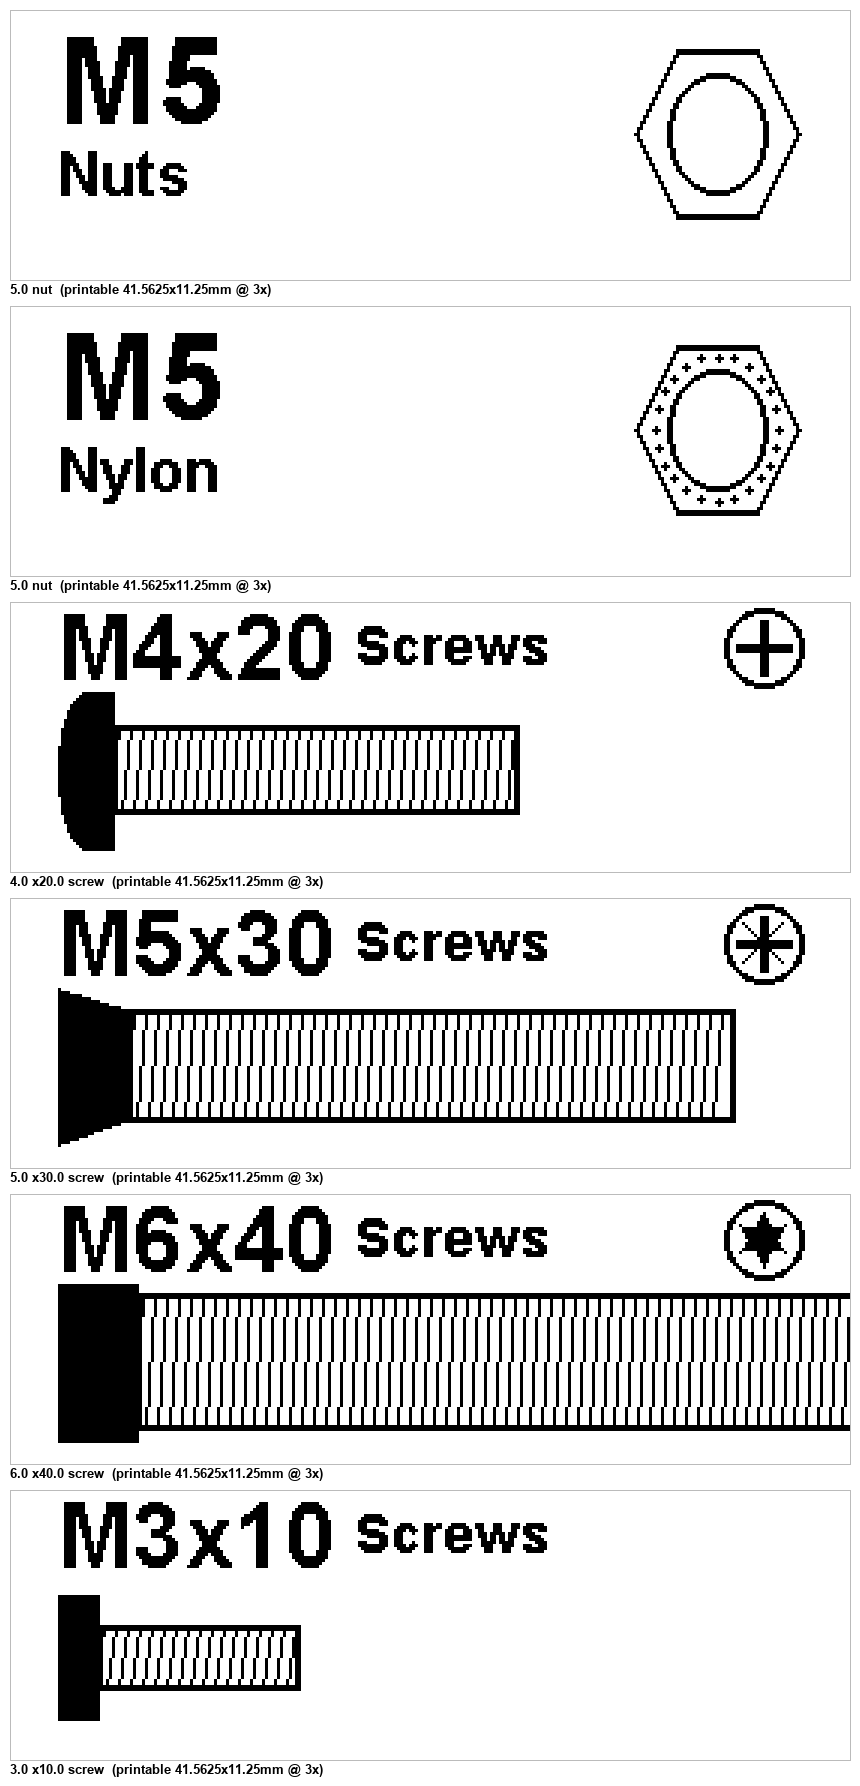
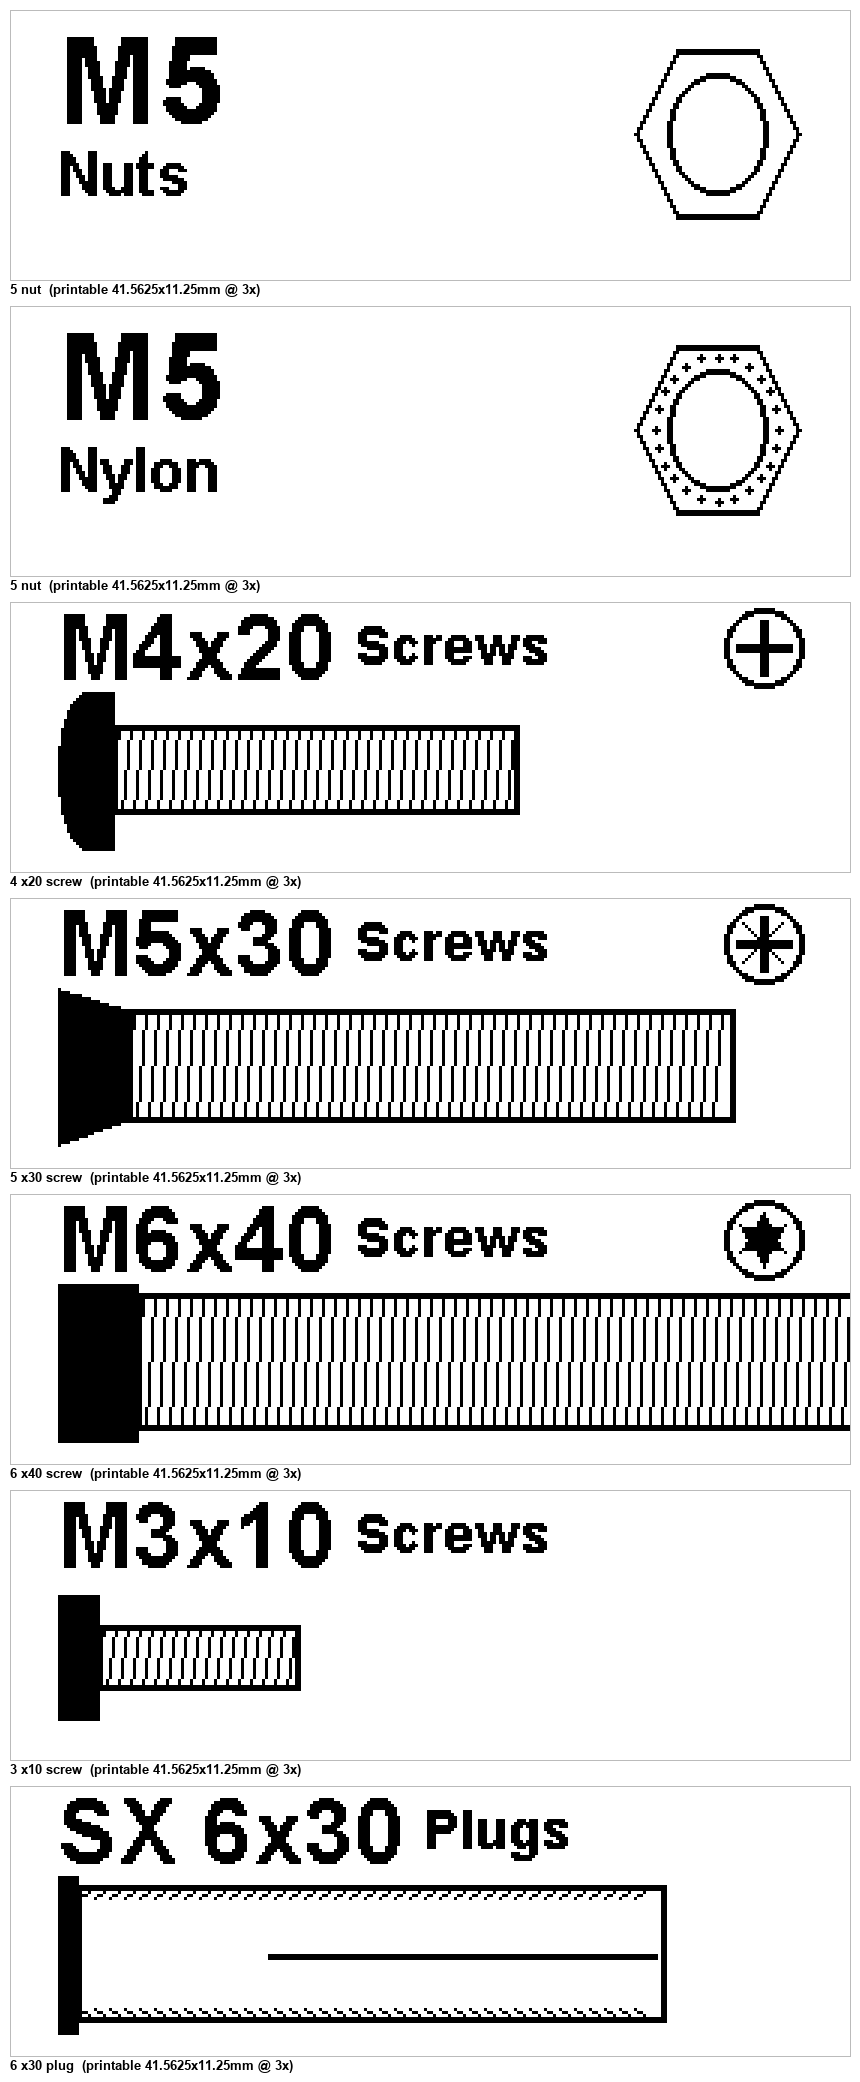
add wall-plug kind
- the :plug tag draws a wall plug instead of a fastener: collar, ribbed
  expansion sleeve and expansion slot, no drive icon
- size needs no M prefix; any letter prefix is kept as the range name
  (SX6x30:plug -> "SX 6x30 Plugs", true 6 x 30 mm)
- README tags/accuracy tables and the examples preview updated

Changed region(s): [[0.0, 0.0, 0.9977, 1.0], [0.7256, 0.154, 0.9372, 0.4003], [0.7256, 0.0, 0.9372, 0.1232]]

diff --git a/gen.py b/gen.py
@@ -5,6 +5,7 @@ ACTUAL SIZE; anything larger than the sticker runs off the edge and is cut.
 """
 from __future__ import annotations
 import math
+from string import ascii_uppercase
 from PIL import Image, ImageDraw, ImageFont
 
 DPMM = 8
@@ -46,6 +47,9 @@ DRIVES = {"philips", "phillips", "ph", "cross", "pozi", "pozidriv", "pz",
 # Nut variants (tag after the size, e.g. M5:nylon).
 NUT_TYPES = {"nylon": "nylon", "nyloc": "nylon", "nylock": "nylon",
              "lock": "nylon", "insert": "nylon"}
+# Wall plugs / anchors (tag after the size, e.g. SX6x30:plug). Not threaded, so
+# the size is a plain Ø x length with no M prefix and no drive icon.
+PLUG_TYPES = {"plug", "plugs", "wallplug", "anchor", "dowel", "raw", "rawlplug"}
 
 
 def _font(px: int) -> ImageFont.FreeTypeFont:
@@ -123,6 +127,26 @@ def draw_screw(d: ImageDraw.ImageDraw, x0, cy, m, length_mm, band_h, shape="hex"
         d.line([x, top, x - 3, bot], fill=BLACK, width=1)
 
 
+def draw_plug(d: ImageDraw.ImageDraw, x0, cy, dia_mm, length_mm, band_h):
+    """Wall-plug side profile, drawn like a screw shaft but with no head/drive:
+    a collar (wall-face lip), a ribbed expansion sleeve and the expansion slot.
+    Ø and length are true scale — length uses FEED_DPMM, the section uses DPMM."""
+    body_h = min(dia_mm * DPMM - LINE_BLEED, band_h - 4)
+    total = length_mm * FEED_DPMM                    # collar is part of the length
+    collar_w = max(3.0, 1.0 * FEED_DPMM)             # ~1 mm lip
+    collar_h = min(dia_mm * 1.3 * DPMM - LINE_BLEED, band_h)
+    top, bot = cy - body_h / 2, cy + body_h / 2
+    d.rectangle([x0, cy - collar_h / 2, x0 + collar_w, cy + collar_h / 2], fill=BLACK)
+    sx = x0 + collar_w
+    d.rectangle([sx, top, x0 + total, bot], outline=BLACK, width=2)
+    # anti-rotation ribs biting back toward the collar, top and bottom edges
+    for x in range(int(sx) + 5, int(x0 + total) - 2, 5):
+        d.line([x, top + 1, x - 4, top + 4], fill=BLACK, width=1)
+        d.line([x, bot - 1, x - 4, bot - 4], fill=BLACK, width=1)
+    # expansion slot, open from the deep end
+    d.line([x0 + total * 0.35, cy, x0 + total - 3, cy], fill=BLACK, width=2)
+
+
 def draw_drive(d: ImageDraw.ImageDraw, cx, cy, r, kind):
     """Small screw-head top-view showing the drive type, centred at (cx, cy)."""
     kind = kind.lower()
@@ -174,6 +198,15 @@ def make_label(kind: str, m: float, length: float | None = None,
         d.text((pad, 43), "Nylon" if shape == "nylon" else "Nuts", font=f_sub, fill=BLACK)
         cx = int(W - pad - nut_half_width(m))          # right-align the nut
         draw_nut(d, cx, cy, m, nylon=(shape == "nylon"))
+    elif kind == "plug":
+        # same layout as a screw; `shape` carries an optional range prefix (SX, UX…)
+        f_big, f_sub = _font(30), _font(18)
+        title = f"{shape + ' ' if shape else ''}{m:g}x{length:g}"
+        d.text((pad, -2), title, font=f_big, fill=BLACK)
+        tw = d.textlength(title, font=f_big)
+        d.text((pad + tw + 6, 4), "Plugs", font=f_sub, fill=BLACK)
+        band_top, band_bot = 30, H - bot
+        draw_plug(d, pad, (band_top + band_bot) // 2, m, length, band_bot - band_top)
     else:
         # title + "Screws" pinned to the top; screw centred in the band below it,
         # drive-type icon in the top-right corner
@@ -202,7 +235,8 @@ def contact_sheet(specs, scale=3, out="preview.png"):
         big = im.convert("L").resize((cw, ch), Image.NEAREST).convert("RGB")
         sheet.paste(big, (gap, y))
         dd.rectangle([gap, y, gap + cw, y + ch], outline="#bbb")
-        name = f"{spec[1]} {'nut' if spec[0]=='nut' else 'x'+str(spec[2])+' screw'}  (printable {LEN_MM:g}x{HEAD_MM:g}mm @ {scale}x)"
+        what = "nut" if spec[0] == "nut" else f"x{spec[2]:g} {spec[0]}"
+        name = f"{spec[1]:g} {what}  (printable {LEN_MM:g}x{HEAD_MM:g}mm @ {scale}x)"
         dd.text((gap, y + ch + 2), name, font=f, fill="black")
         y += ch + cap_h + gap
     sheet.save(out)
@@ -211,16 +245,23 @@ def contact_sheet(specs, scale=3, out="preview.png"):
 
 def parse_spec(token: str):
     """'M5' -> nut; 'M5:nylon' -> nyloc nut; 'M5x30:pan:philips' -> screw with
-    head profile + drive icon. Tags after the size (any order): for screws a head
+    head profile + drive icon; 'SX6x30:plug' -> wall plug (any letter prefix is
+    kept as the range name). Tags after the size (any order): for screws a head
     shape (pan/csk/hex) and/or drive (philips/pozi/torx/slot/square/allen); for
-    nuts a variant (nylon)."""
+    nuts a variant (nylon); 'plug' switches the whole label to a wall plug."""
     parts = token.split(":")
-    t = parts[0].strip().upper().lstrip("M")
+    tags = [t.strip().lower() for t in parts[1:]]
+    t = parts[0].strip().upper()
+    prefix = t[:len(t) - len(t.lstrip(ascii_uppercase))]   # 'M', 'SX', '' …
+    t = t[len(prefix):]
+    if any(tag in PLUG_TYPES for tag in tags):
+        dia, length = t.split("X", 1)
+        return ("plug", float(dia), float(length),
+                "" if prefix == "M" else prefix, None)
     is_screw = "X" in t
     shape = "hex" if is_screw else None
     drive = None
-    for tag in parts[1:]:
-        tag = tag.strip().lower()
+    for tag in tags:
         if is_screw and tag in HEAD_SHAPES:
             shape = HEAD_SHAPES[tag]
         elif is_screw and tag in DRIVES:
@@ -237,6 +278,8 @@ def spec_name(spec) -> str:
     kind, m, length, shape, drive = spec
     if kind == "nut":
         return f"M{m:g}_nut" + (f"_{shape}" if shape else "")
+    if kind == "plug":
+        return f"{shape + '_' if shape else ''}{m:g}x{length:g}_plug"
     tags = "".join(f"_{t}" for t in (shape if shape != "hex" else None, drive) if t)
     return f"M{m:g}x{length:g}_screw{tags}"
 
@@ -265,6 +308,9 @@ def main(argv=None):
         if kind == "nut":
             variant = " nyloc" if shape == "nylon" else ""
             print(f"  {os.path.basename(path):24} M{m:g}{variant} nut: hex WAF {WAF[m]} mm, hole Ø{m:g} mm")
+        elif kind == "plug":
+            print(f"  {os.path.basename(path):24} {shape + ' ' if shape else ''}"
+                  f"{m:g}x{length:g}: wall plug, Ø{m:g}x{length:g} mm")
         else:
             s, k = HEX_BOLT[m]
             extra = "".join(f", {t}" for t in (shape if shape != 'hex' else None,

diff --git a/README.md b/README.md
@@ -17,9 +17,9 @@ on an Orgstra **S001** (Xinye) label printer via
 ## What it does
 
 - **`gen.py`** — generates one PNG per size. Nuts are drawn by ISO hex
-  width-across-flats, screws by real Ø × length. Optional head shapes, drive
-  icons, and a nyloc variant. Anything larger than the label runs off the edge
-  and gets cut — by design.
+  width-across-flats, screws and wall plugs by real Ø × length. Optional head
+  shapes, drive icons, a nyloc variant and a plug kind. Anything larger than the
+  label runs off the edge and gets cut — by design.
 - **`print.py`** — prints a folder of stickers on the S001 through the TiMini CLI:
   one test sticker, you approve, then it prints the rest.
 
@@ -52,7 +52,9 @@ uv run gen.py M3 M5 M8 M5x50 M4x20 --out out --sheet
 ```
 
 - `M5` → nut, `M5x50` → screw (Ø5 × 50 mm). Decimals are fine: `M2.5`.
-- PNGs are written to `out/` (`M5_nut.png`, `M5x50_screw.png`).
+- `SX6x30:plug` → wall plug (Ø6 × 30 mm). Plugs aren't threaded, so the size
+  needs no `M`; any letter prefix is kept as the range name (`SX 6x30`).
+- PNGs are written to `out/` (`M5_nut.png`, `M5x50_screw.png`, `SX_6x30_plug.png`).
 - `--sheet` also writes `_preview.png` so you can eyeball the batch.
 
 **Tags** — add `:tag` after the size (any order) to vary the drawing:
@@ -64,8 +66,9 @@ uv run gen.py M3 M5 M8 M5x50 M4x20 --out out --sheet
 | `csk` (`flat`, `countersunk`) | screw | flat face, countersunk taper into the shaft |
 | `hex` (default) | screw | flat hex-bolt head block |
 | `philips` `pozi` `torx` `slot` `square` `allen` | screw | drive icon in the top-right |
+| `plug` (`anchor`, `dowel`, `wallplug`) | — | draws a wall plug instead: collar, ribbed sleeve, expansion slot, no drive icon |
 
-Examples: `M5:nylon` · `M4x20:pan:philips` · `M5x30:csk:pozi` · `M3x8:torx`
+Examples: `M5:nylon` · `M4x20:pan:philips` · `M5x30:csk:pozi` · `M3x8:torx` · `SX6x30:plug`
 
 ## Print
 
@@ -93,6 +96,7 @@ README for pairing).
 | Bolt head (WAF × height) | ISO 4017 |
 | Shaft Ø | nominal M-size (edge-measured, bleed-compensated) |
 | Shaft length | the mm value you give (`M5x50` → 50 mm) |
+| Wall plug Ø × length | the values you give (`SX6x30` → Ø6 × 30 mm, collar included) |
 
 The identifying dimensions — **shaft Ø × length** — print true size; the head is a
 visual cue (drawn ISO hex-bolt size, ~5.5 mm across for M3, and varies in reality
